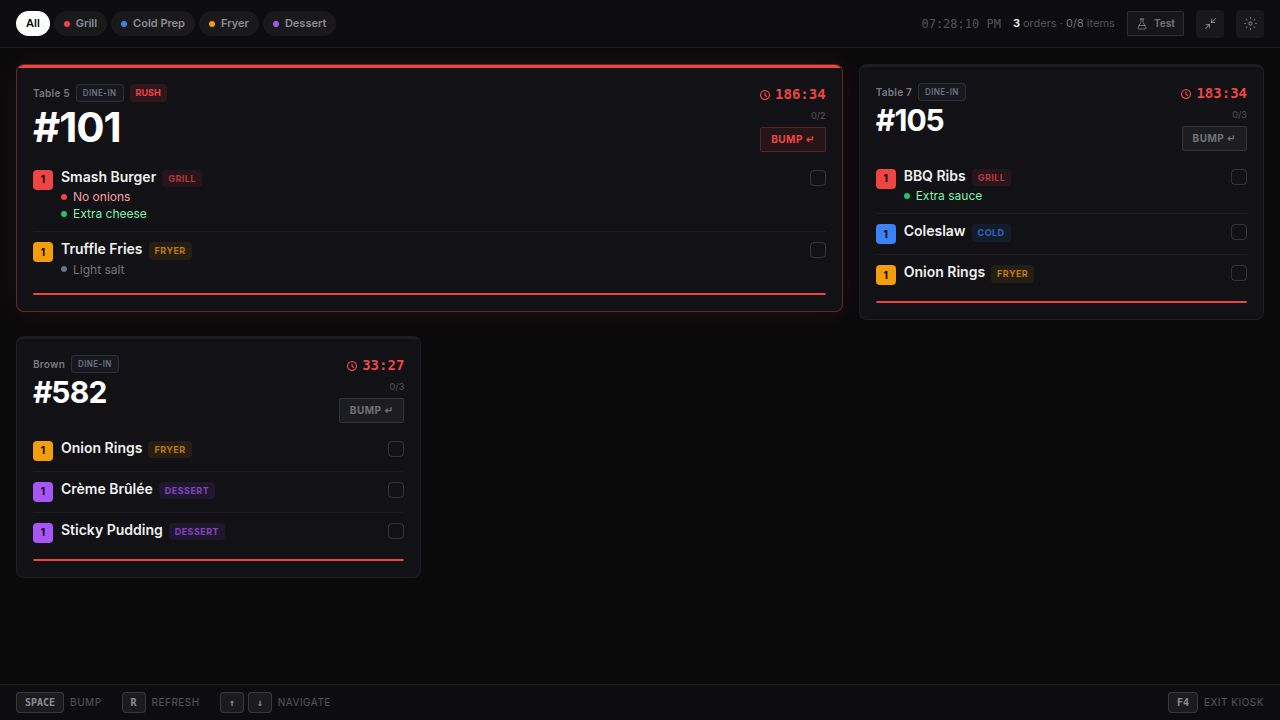
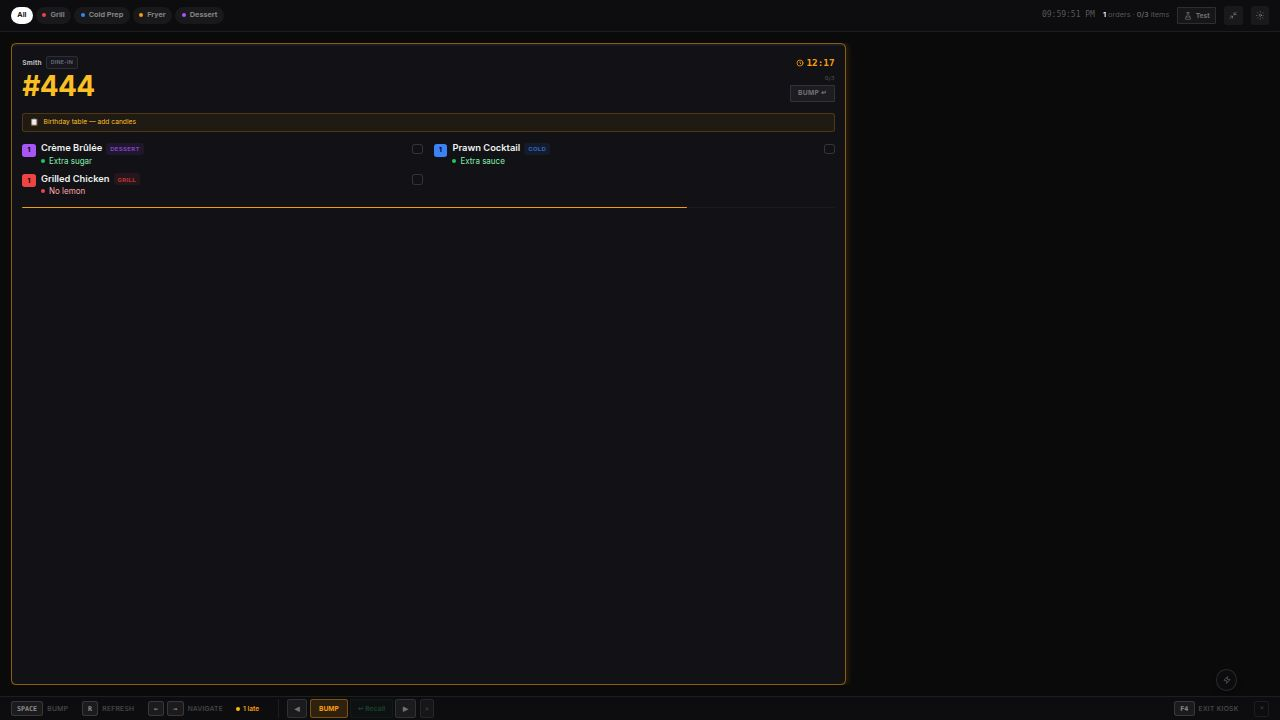
Brighten UI elements for better visibility in the kitchen
Adjusted opacity and color values for various UI elements including the order completion counter, bump button, footer hints, and navigation buttons to improve contrast and readability.

Replit-Commit-Author: Agent
Replit-Commit-Session-Id: b1d019c3-033e-473d-a585-4dcab55ead26
Replit-Commit-Checkpoint-Type: full_checkpoint
Replit-Commit-Event-Id: 67d8ff68-1fdf-4f67-b3db-9f398c3ce4f9
Replit-Commit-Screenshot-Url: https://storage.googleapis.com/screenshot-production-us-central1/90dcdbf0-0649-4dd1-be85-010ba88aa30c/b1d019c3-033e-473d-a585-4dcab55ead26/SUHA592
Replit-Helium-Checkpoint-Created: true

diff --git a/artifacts/kds/src/pages/index.tsx b/artifacts/kds/src/pages/index.tsx
@@ -446,13 +446,13 @@ function OrderCard({ order, featured, doneItems, onToggleItem, onBump, onFocus, 
               </svg>
               <span className="font-mono tabular-nums font-bold" style={{ fontSize: fs.timer, color: tColor }}>{fmtTime(elapsed)}</span>
             </div>
-            <span className="text-[9px] text-white/25 font-medium">{doneCount}/{order.items.length}</span>
+            <span className="text-[9px] text-white/50 font-medium">{doneCount}/{order.items.length}</span>
             <button onClick={e => { e.stopPropagation(); onBump(); }}
               className="px-2.5 py-1 rounded-md text-[10px] font-bold uppercase tracking-wider border transition-all active:scale-95"
               style={{
-                background: hasPrio ? `${pColor}18` : "rgba(255,255,255,0.05)",
-                borderColor: hasPrio ? `${pColor}44` : "rgba(255,255,255,0.1)",
-                color: hasPrio ? pColor : "rgba(255,255,255,0.38)",
+                background: hasPrio ? `${pColor}18` : "rgba(255,255,255,0.06)",
+                borderColor: hasPrio ? `${pColor}44` : "rgba(255,255,255,0.15)",
+                color: hasPrio ? pColor : "rgba(255,255,255,0.62)",
               }}>
               {cfg.mode === "expo" ? "Fire →" : "Bump ↵"}
             </button>
@@ -495,7 +495,7 @@ function OrderCard({ order, featured, doneItems, onToggleItem, onBump, onFocus, 
         )}
 
         {allDone && (
-          <p className="text-center text-[10px] text-white/22 tracking-wide">
+          <p className="text-center text-[10px] text-white/45 tracking-wide font-semibold">
             All ready — {cfg.mode === "expo" ? "fire" : "bump"} to complete
           </p>
         )}
@@ -1812,14 +1812,14 @@ export default function KdsDisplay() {
             <div key={label} className="flex items-center gap-1.5">
               <div className="flex gap-1">
                 {keys.map(k => (
-                  <kbd key={k} className="font-mono text-[10px] font-bold px-2 py-0.5 rounded border border-white/[0.13] bg-white/[0.06] text-white/50">{k}</kbd>
+                  <kbd key={k} className="font-mono text-[10px] font-bold px-2 py-0.5 rounded border border-white/[0.18] bg-white/[0.08] text-white/70">{k}</kbd>
                 ))}
               </div>
-              <span className="text-[10px] text-white/28 uppercase tracking-wider">{label}</span>
+              <span className="text-[10px] text-white/45 uppercase tracking-wider">{label}</span>
             </div>
           ))}
           {doneTotal > 0 && (
-            <span className="text-[10px] text-white/22">{doneTotal} item{doneTotal !== 1 ? "s" : ""} done this session</span>
+            <span className="text-[10px] text-white/40">{doneTotal} item{doneTotal !== 1 ? "s" : ""} done this session</span>
           )}
           {/* Kitchen health indicator */}
           {allOrders.length > 0 && (
@@ -1850,7 +1850,7 @@ export default function KdsDisplay() {
                   setFocus(visibleOrders[Math.max(idx - 1, 0)]?.id ?? null);
                 }}
                 className="h-7 px-2.5 rounded-lg text-[10px] font-bold border transition-all active:scale-95"
-                style={{ background: "rgba(255,255,255,0.06)", borderColor: "rgba(255,255,255,0.1)", color: "rgba(255,255,255,0.4)" }}
+                style={{ background: "rgba(255,255,255,0.06)", borderColor: "rgba(255,255,255,0.12)", color: "rgba(255,255,255,0.62)" }}
                 title="Previous order">◀</button>
               <button
                 onClick={() => focusedOrder && bump(focusedOrder.id)}
@@ -1878,7 +1878,7 @@ export default function KdsDisplay() {
                   setFocus(visibleOrders[Math.min(idx + 1, visibleOrders.length - 1)]?.id ?? null);
                 }}
                 className="h-7 px-2.5 rounded-lg text-[10px] font-bold border transition-all active:scale-95"
-                style={{ background: "rgba(255,255,255,0.06)", borderColor: "rgba(255,255,255,0.1)", color: "rgba(255,255,255,0.4)" }}
+                style={{ background: "rgba(255,255,255,0.06)", borderColor: "rgba(255,255,255,0.12)", color: "rgba(255,255,255,0.62)" }}
                 title="Next order">▶</button>
               <button
                 onClick={() => setCfg(c => ({ ...c, showVirtualBumpBar: false }))}